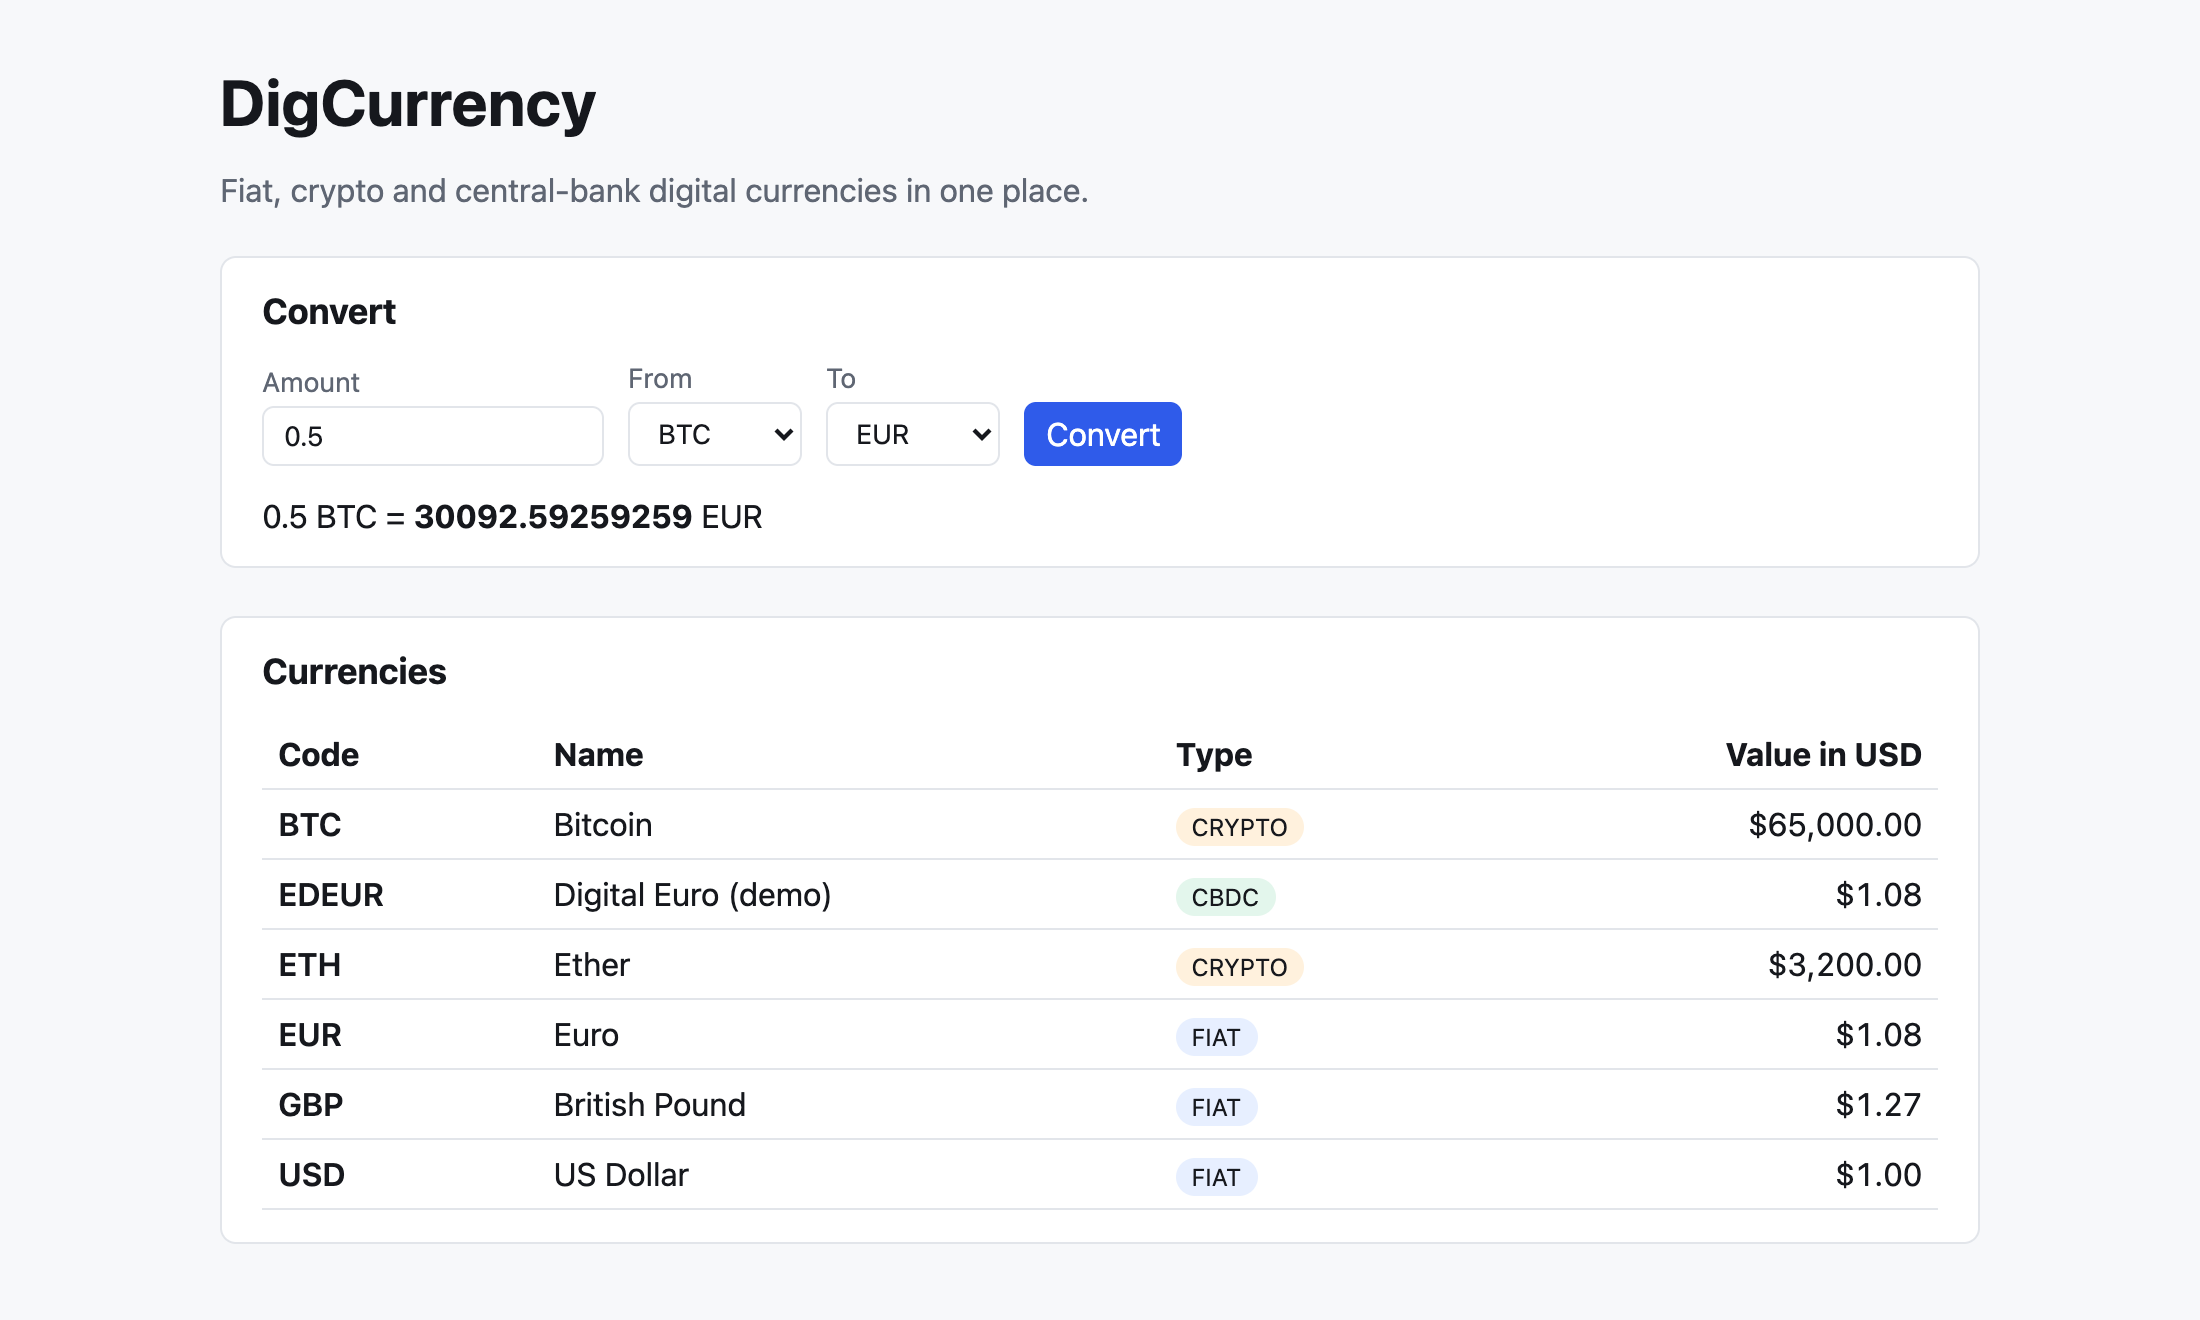
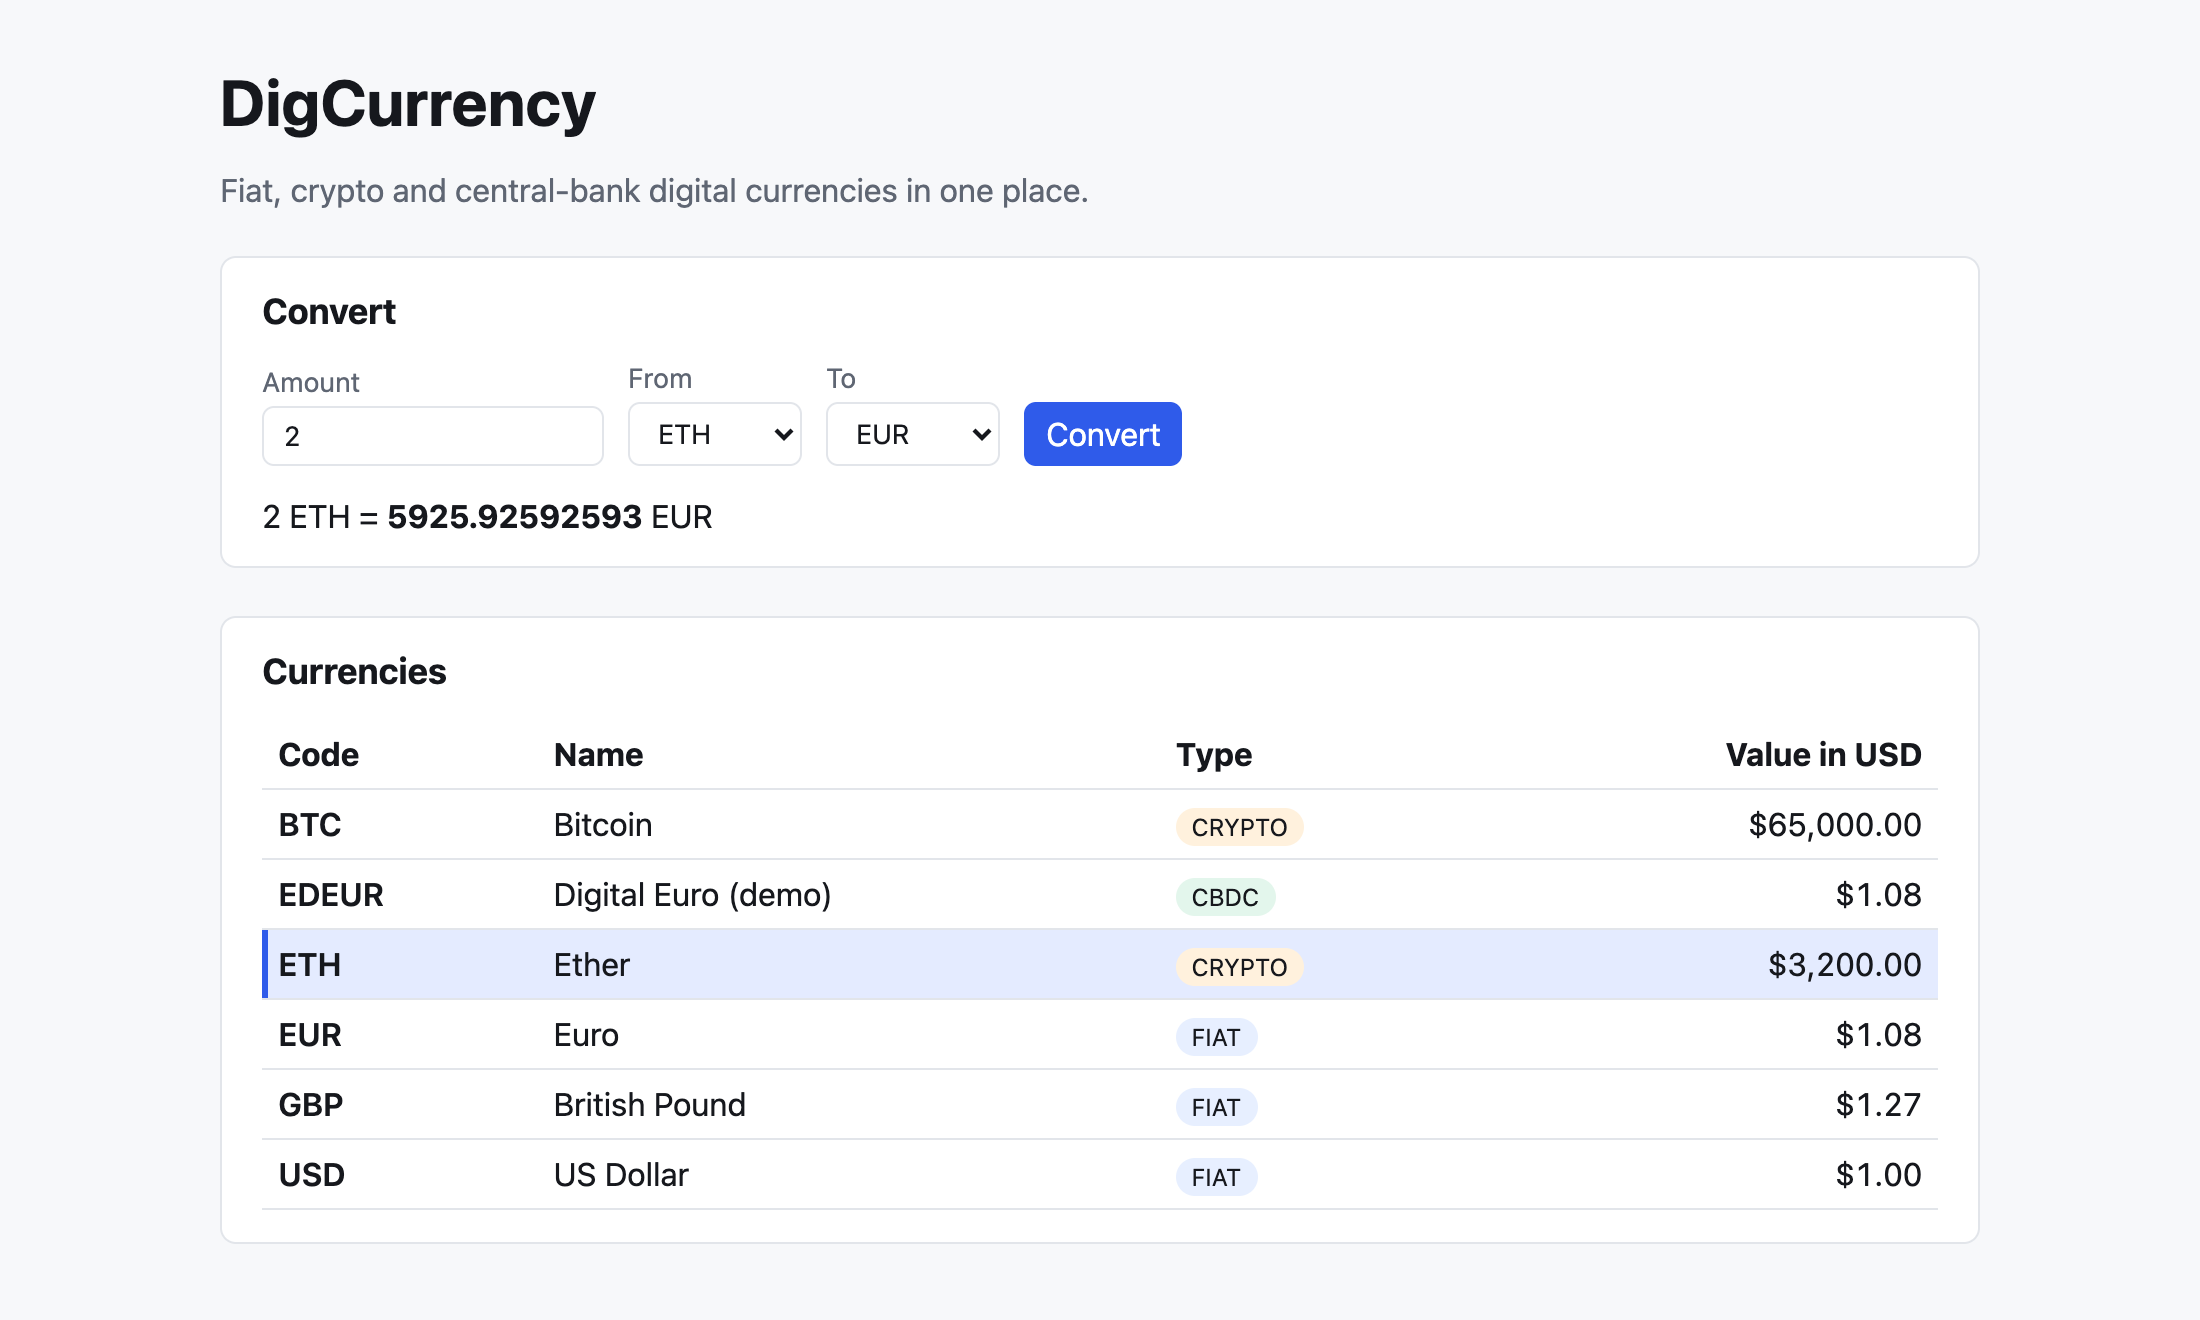
Select converter "From" currency by clicking a table row
- Lift the "From" state into App so the table and converter share it
- Table rows are clickable and keyboard-selectable (Enter/Space); the
  selected row is highlighted, with light and dark theme colours
- Tests for row click, keyboard selection, highlight and App wiring
- README: updated screenshot and feature description

diff --git a/frontend/src/components/CurrencyTable.test.tsx b/frontend/src/components/CurrencyTable.test.tsx
@@ -1,4 +1,6 @@
 import { render, screen } from '@testing-library/react';
+import userEvent from '@testing-library/user-event';
+import { vi } from 'vitest';
 import { CurrencyTable } from './CurrencyTable';
 import type { Currency } from '../api/types';
 
@@ -9,6 +11,8 @@ const btc: Currency = {
   usdRate: 65000,
   updatedAt: '2026-01-01T00:00:00Z',
 };
+
+const eth: Currency = { ...btc, code: 'ETH', name: 'Ether', usdRate: 3200 };
 
 describe('CurrencyTable', () => {
   it('renders a row per currency', () => {
@@ -23,5 +27,31 @@ describe('CurrencyTable', () => {
     render(<CurrencyTable currencies={[]} />);
 
     expect(screen.getByText('No currencies yet.')).toBeInTheDocument();
+  });
+
+  it('selects a currency when its row is clicked', async () => {
+    const onSelect = vi.fn();
+    render(<CurrencyTable currencies={[btc, eth]} onSelect={onSelect} />);
+
+    await userEvent.click(screen.getByText('Ether'));
+
+    expect(onSelect).toHaveBeenCalledWith('ETH');
+  });
+
+  it('selects a currency with the keyboard', async () => {
+    const onSelect = vi.fn();
+    render(<CurrencyTable currencies={[btc, eth]} onSelect={onSelect} />);
+
+    screen.getByText('Bitcoin').closest('tr')!.focus();
+    await userEvent.keyboard('{Enter}');
+
+    expect(onSelect).toHaveBeenCalledWith('BTC');
+  });
+
+  it('marks the selected row', () => {
+    render(<CurrencyTable currencies={[btc, eth]} selectedCode="ETH" onSelect={vi.fn()} />);
+
+    expect(screen.getByText('Ether').closest('tr')).toHaveAttribute('aria-selected', 'true');
+    expect(screen.getByText('Bitcoin').closest('tr')).toHaveAttribute('aria-selected', 'false');
   });
 });

diff --git a/frontend/src/components/CurrencyTable.tsx b/frontend/src/components/CurrencyTable.tsx
@@ -2,11 +2,15 @@ import type { Currency } from '../api/types';
 
 interface Props {
   currencies: Currency[];
+  /** Code of the row to highlight, e.g. the converter's "From" currency. */
+  selectedCode?: string;
+  /** Called with the currency code when a row is clicked or activated with Enter/Space. */
+  onSelect?: (code: string) => void;
 }
 
 const usd = new Intl.NumberFormat('en-US', { style: 'currency', currency: 'USD', maximumFractionDigits: 6 });
 
-export function CurrencyTable({ currencies }: Props) {
+export function CurrencyTable({ currencies, selectedCode, onSelect }: Props) {
   if (currencies.length === 0) {
     return <p className="muted">No currencies yet.</p>;
   }
@@ -23,7 +27,23 @@ export function CurrencyTable({ currencies }: Props) {
       </thead>
       <tbody>
         {currencies.map((c) => (
-          <tr key={c.code}>
+          <tr
+            key={c.code}
+            className={[onSelect && 'selectable', c.code === selectedCode && 'selected'].filter(Boolean).join(' ') || undefined}
+            aria-selected={onSelect ? c.code === selectedCode : undefined}
+            tabIndex={onSelect ? 0 : undefined}
+            title={onSelect ? `Convert from ${c.code}` : undefined}
+            onClick={onSelect && (() => onSelect(c.code))}
+            onKeyDown={
+              onSelect &&
+              ((e) => {
+                if (e.key === 'Enter' || e.key === ' ') {
+                  e.preventDefault();
+                  onSelect(c.code);
+                }
+              })
+            }
+          >
             <td className="code">{c.code}</td>
             <td>{c.name}</td>
             <td>

diff --git a/frontend/src/App.test.tsx b/frontend/src/App.test.tsx
@@ -1,0 +1,28 @@
+import { render, screen } from '@testing-library/react';
+import userEvent from '@testing-library/user-event';
+import { vi } from 'vitest';
+import App from './App';
+import type { Currency } from './api/types';
+
+const currencies: Currency[] = [
+  { code: 'BTC', name: 'Bitcoin', type: 'CRYPTO', usdRate: 65000, updatedAt: '2026-01-01T00:00:00Z' },
+  { code: 'ETH', name: 'Ether', type: 'CRYPTO', usdRate: 3200, updatedAt: '2026-01-01T00:00:00Z' },
+  { code: 'EUR', name: 'Euro', type: 'FIAT', usdRate: 1.08, updatedAt: '2026-01-01T00:00:00Z' },
+];
+
+describe('App', () => {
+  it('sets the converter "From" currency when a table row is clicked', async () => {
+    vi.spyOn(globalThis, 'fetch').mockResolvedValue(
+      new Response(JSON.stringify(currencies), { status: 200, headers: { 'Content-Type': 'application/json' } }),
+    );
+    render(<App />);
+
+    const fromSelect = await screen.findByLabelText('From');
+    expect(fromSelect).toHaveValue('BTC');
+
+    await userEvent.click(screen.getByText('Ether'));
+
+    expect(fromSelect).toHaveValue('ETH');
+    expect(screen.getByText('Ether').closest('tr')).toHaveAttribute('aria-selected', 'true');
+  });
+});

diff --git a/frontend/src/App.tsx b/frontend/src/App.tsx
@@ -7,11 +7,15 @@ import { CurrencyTable } from './components/CurrencyTable';
 export default function App() {
   const [currencies, setCurrencies] = useState<Currency[] | null>(null);
   const [error, setError] = useState<string | null>(null);
+  const [from, setFrom] = useState('');
 
   useEffect(() => {
     currencyApi
       .list()
-      .then(setCurrencies)
+      .then((list) => {
+        setCurrencies(list);
+        setFrom(list[0]?.code ?? '');
+      })
       .catch((e: Error) => setError(e.message));
   }, []);
 
@@ -29,11 +33,11 @@ export default function App() {
         <main>
           <section>
             <h2>Convert</h2>
-            <Converter currencies={currencies} />
+            <Converter currencies={currencies} from={from} onFromChange={setFrom} />
           </section>
           <section>
             <h2>Currencies</h2>
-            <CurrencyTable currencies={currencies} />
+            <CurrencyTable currencies={currencies} selectedCode={from} onSelect={setFrom} />
           </section>
         </main>
       )}

diff --git a/frontend/src/components/Converter.tsx b/frontend/src/components/Converter.tsx
@@ -4,10 +4,11 @@ import type { ConversionResult, Currency } from '../api/types';
 
 interface Props {
   currencies: Currency[];
+  from: string;
+  onFromChange: (code: string) => void;
 }
 
-export function Converter({ currencies }: Props) {
-  const [from, setFrom] = useState(currencies[0]?.code ?? '');
+export function Converter({ currencies, from, onFromChange }: Props) {
   const [to, setTo] = useState(currencies[1]?.code ?? currencies[0]?.code ?? '');
   const [amount, setAmount] = useState('1');
   const [result, setResult] = useState<ConversionResult | null>(null);
@@ -32,7 +33,7 @@ export function Converter({ currencies }: Props) {
       </label>
       <label>
         From
-        <select value={from} onChange={(e) => setFrom(e.target.value)}>
+        <select value={from} onChange={(e) => onFromChange(e.target.value)}>
           {currencies.map((c) => (
             <option key={c.code} value={c.code}>{c.code}</option>
           ))}

diff --git a/frontend/src/index.css b/frontend/src/index.css
@@ -9,6 +9,8 @@
   --fiat: #e7efff;
   --crypto: #fff1dd;
   --cbdc: #e3f6ec;
+  --row-hover: #f1f4fb;
+  --row-selected: #e4ebff;
   font-family: system-ui, -apple-system, 'Segoe UI', sans-serif;
   color: var(--text);
   background: var(--bg);
@@ -26,6 +28,8 @@
     --fiat: #22304f;
     --crypto: #45361f;
     --cbdc: #1f3d2d;
+    --row-hover: #20242d;
+    --row-selected: #26324f;
   }
 }
 
@@ -80,6 +84,24 @@ h2 {
 .currency-table .num {
   text-align: right;
   font-variant-numeric: tabular-nums;
+}
+
+.currency-table tr.selectable {
+  cursor: pointer;
+}
+
+.currency-table tr.selectable:hover {
+  background: var(--row-hover);
+}
+
+.currency-table tr.selectable:focus-visible {
+  outline: 2px solid var(--accent);
+  outline-offset: -2px;
+}
+
+.currency-table tr.selected {
+  background: var(--row-selected);
+  box-shadow: inset 3px 0 0 var(--accent);
 }
 
 .code {

diff --git a/README.md b/README.md
@@ -8,7 +8,7 @@
 
 A full-stack showcase app for managing currencies and converting between them. It has a **Spring Boot REST API** and a **React** single-page frontend.
 
-![DigCurrency web UI: converting 0.5 BTC to EUR above the currency table](docs/images/screenshot.png)
+![DigCurrency web UI: the Ether row is selected in the currency table and the converter shows 2 ETH converted to EUR](docs/images/screenshot.png)
 
 DigCurrency handles three kinds of money side by side:
 
@@ -27,7 +27,7 @@ Every currency has a rate in US dollars (`usdRate`). DigCurrency converts betwee
 - **Exact money math:** all amounts use `BigDecimal` with 8 decimal places and banker's rounding (`HALF_EVEN`). No floating-point errors.
 - **Standard errors:** every error uses the [RFC 9457](https://www.rfc-editor.org/rfc/rfc9457) `ProblemDetail` JSON format.
 - **Interactive API docs:** Swagger UI and an OpenAPI 3 spec are generated from the code.
-- **Web UI:** a React page with a currency table and a converter form.
+- **Web UI:** a React page with a currency table and a converter form. Click a row in the table (or press Enter on it) to use that currency as the converter's "From" currency.
 
 ## Tech stack
 
